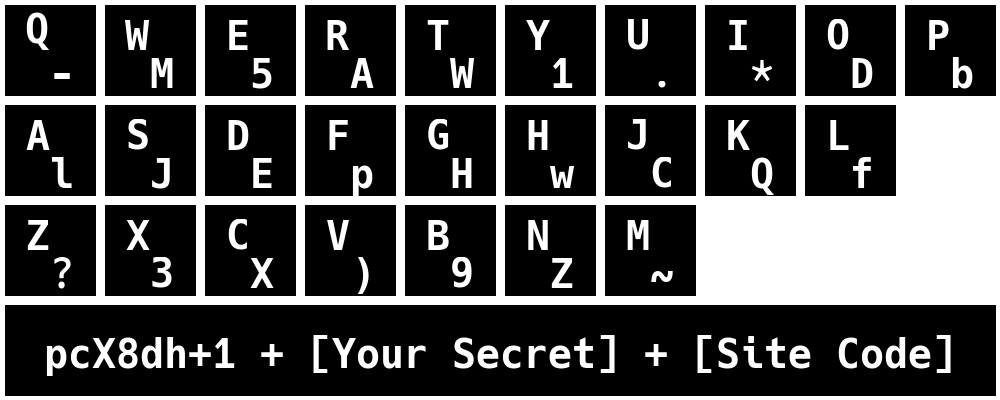
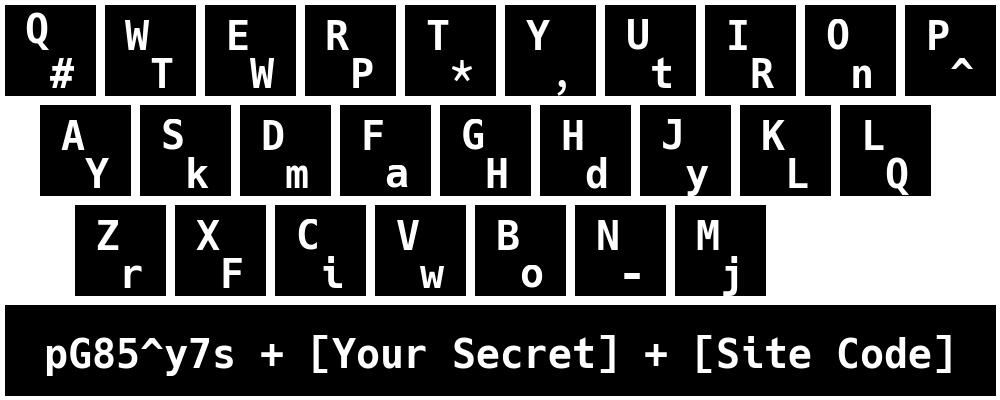
Making layout look more like a keyboard

diff --git a/passcard.py b/passcard.py
@@ -116,7 +116,7 @@ def generate_image(output_file="card.png"):
     for column in range(row_split[row]):
       current_index += 1
       letter = qwerty[current_index]
-      box_x = column * tile_size
+      box_x = column * tile_size + (row * 35)
       box_y = row * tile_size
       draw_box(box_x, box_y, tile_size, letter, keyboard_map[letter], card)
 

diff --git a/README.md b/README.md
@@ -13,7 +13,7 @@ This method lets you create strong, unique passwords for every website that requ
 
 ![Example Passcard](/card.png)
 
-For example, if i were making a password for GitHub with the card above, the site code would be **H\*Ww.9** and the full password for the site might be **pcX8dh+1Last4DigitsOfMyDogH\*Ww.9**. Using the same card, my password for GrubHub would be **pcX8dh+1Last4DigitsOfMyDogHA.9w.9**.
+Let's use the card above as an example, and say that my secret is **S3tec**. The site code would for GitHub would be **HR\*dto** and the full password for the site might be **pG85^y7sS3tecHR\*dto**. Using the same card, my password for GrubHub would be **pG85^y7sS3tecHPtodto**.
  
 It's probably not the ideal solution for everyone, but i thought it was a clever solution that would actually work.
  
